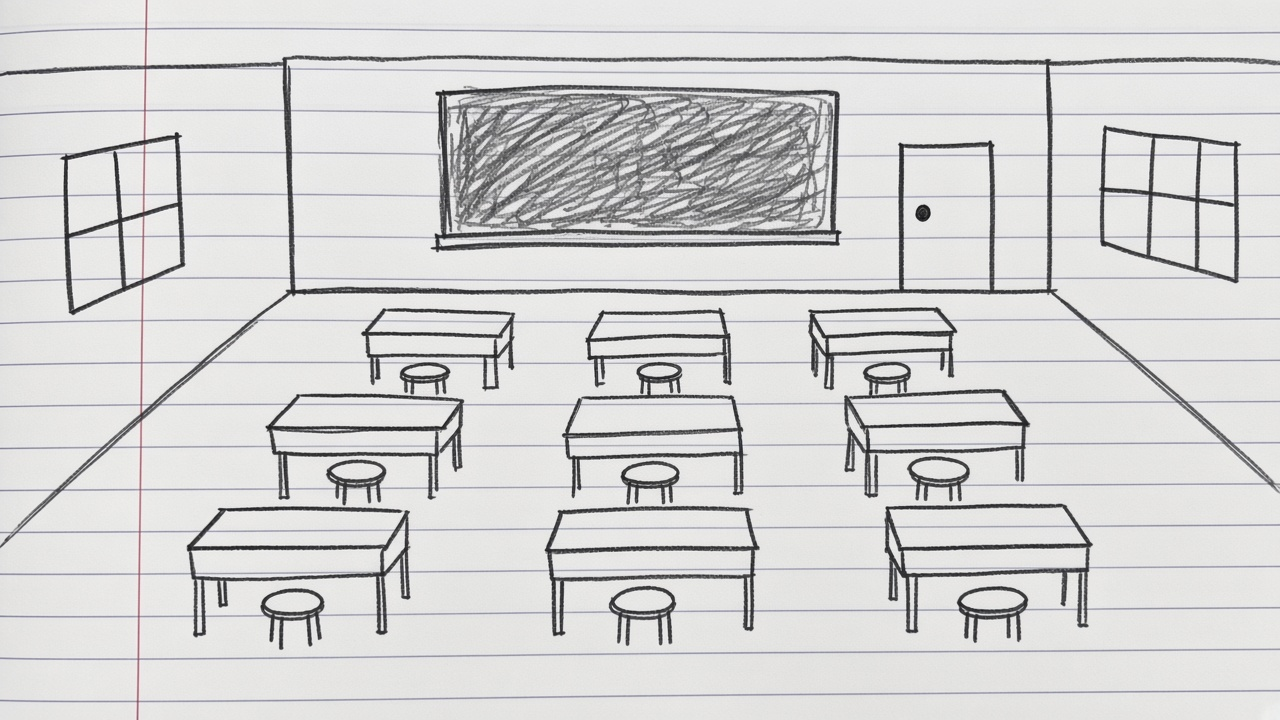
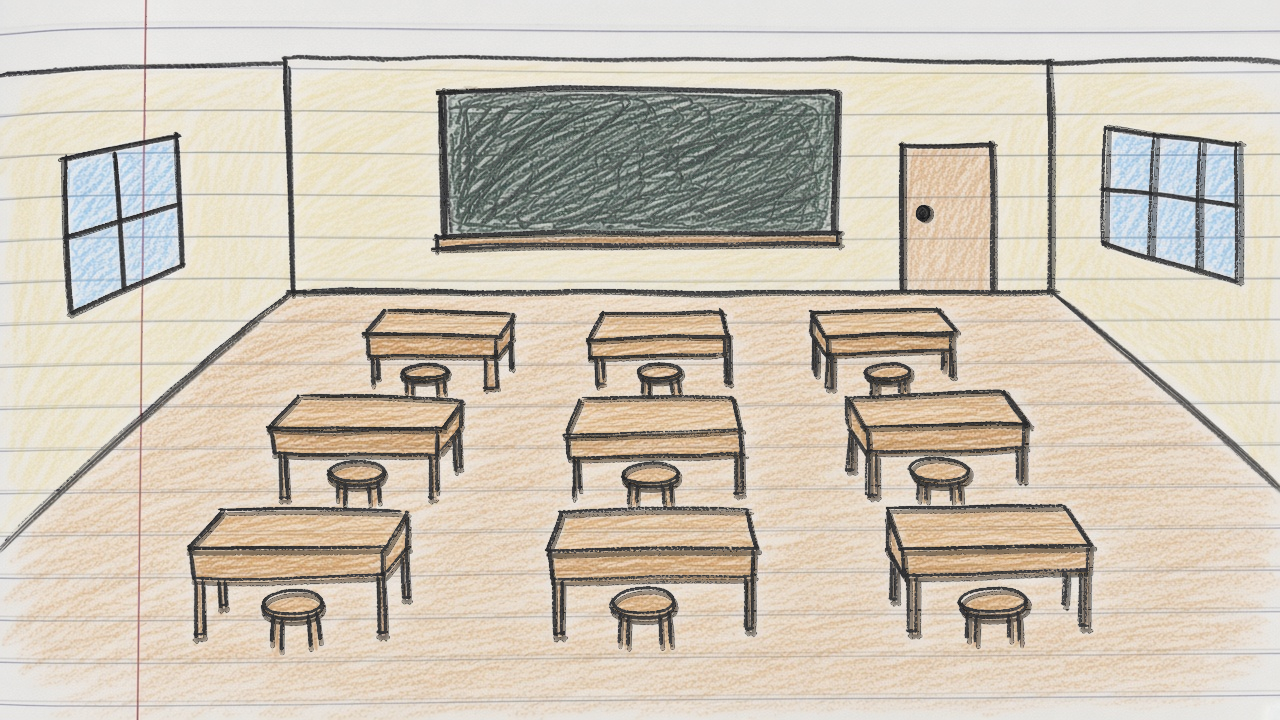
School-day Soft Next #2: wire color Soft PASS assets
Replace B&W notebook classroom, hallway, school-girl, and janitor with
Soft Next color crayon art from the softpass pack. Cast sheets already
SHA MATCH; Spelling hallway untouched.

Cache-bust hub app.js v42, play v2, shelf cover v27; refresh demo thumb
from color classroom.

diff --git a/play/school-day/index.html b/play/school-day/index.html
@@ -4,7 +4,7 @@
   <meta charset="UTF-8" />
   <meta name="viewport" content="width=device-width, initial-scale=1, maximum-scale=1, user-scalable=no" />
   <title>School day!</title>
-  <link rel="stylesheet" href="css/style.css" />
+  <link rel="stylesheet" href="css/style.css?v=2" />
 </head>
 <body>
   <div id="app">
@@ -48,6 +48,6 @@
       <button id="cycle-btn" type="button">A/D</button>
     </div>
   </div>
-  <script type="module" src="js/game.js?v=1"></script>
+  <script type="module" src="js/game.js?v=2"></script>
 </body>
 </html>

diff --git a/app.js b/app.js
@@ -221,8 +221,8 @@ const DEMOS = [
     parent: "Classroom & hallway · meet school friends",
     blurb: "",
     kind: "play",
-    playPath: "play/school-day/?v=1",
-    shelfCover: "10_game_assets/demo/school-day.png?v=26",
+    playPath: "play/school-day/?v=2",
+    shelfCover: "10_game_assets/demo/school-day.png?v=27",
     iframeTitle: "School day",
   },
   {

diff --git a/index.html b/index.html
@@ -91,6 +91,6 @@
     </div>
   </main>
 
-  <script src="app.js?v=41"></script>
+  <script src="app.js?v=42"></script>
 </body>
 </html>
